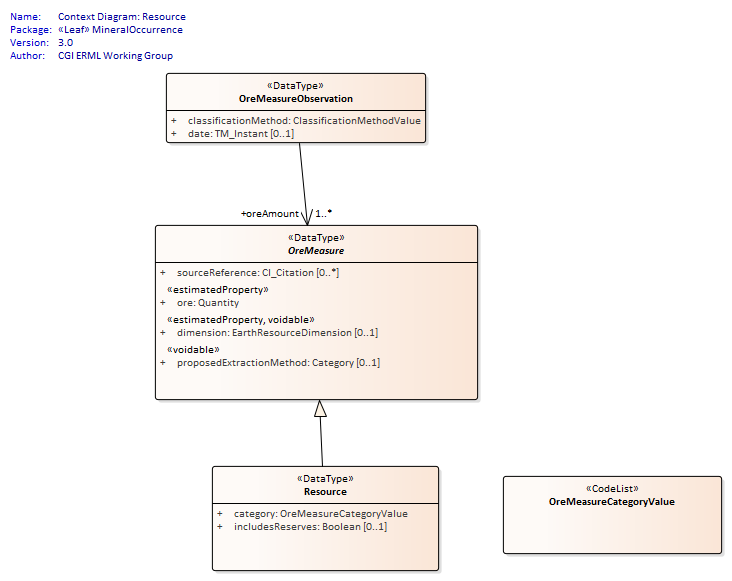
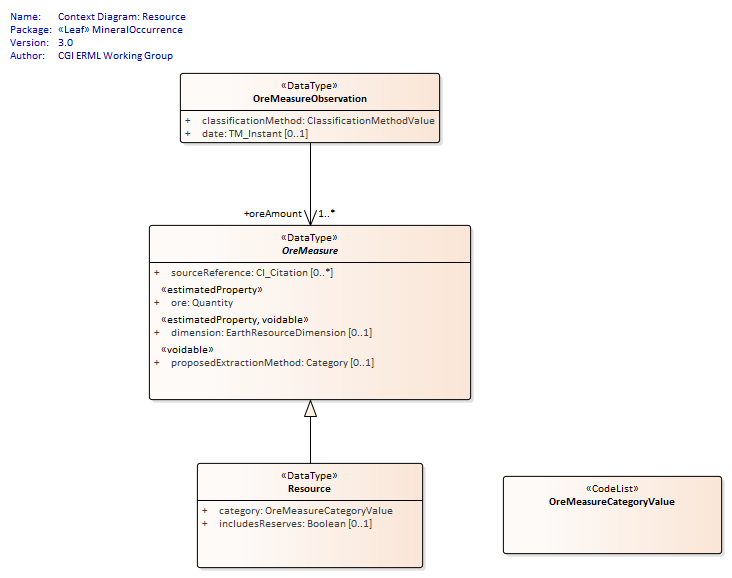
Add OreMeasureObservation to context diagram for Reserve and UNFClassification in documentation
git-svn-id: https://svnserv.csiro.au/svn/ext/xmml/GGIC@2835 8f638a70-d4da-0310-89f2-e0c20b8c11d7

diff --git a/trunk/doc/ERML_3_Doc/EARoot/EA2/EA92.htm b/trunk/doc/ERML_3_Doc/EARoot/EA2/EA92.htm
@@ -643,17 +643,16 @@ function nameClassifier(name, separator)
 				</tr>
 				<tr>
 					<td width="40%" class="TableRow" valign="top">
-						<a href="EA105.htm">«DataType» SupergeneProcesses</a><br />
+						<a href="EA92.htm">«FeatureType» EarthResource</a><br />
 						Class &nbsp;
 					</td>
 					<td width="30%" class="TableRow" valign="top">
-						<strong>Name:</strong> &nbsp;<br />
+						<strong>Name:</strong> child<br />
 						&nbsp;
 					</td>
 					<td width="30%" class="TableRow" valign="top">
-						<strong>Name:</strong> supergeneModification<br />
-						-- Definition --
-A supergene process which would allow a metal enrichment produced by the chemical remobilisation of metals in an oxidised or transitional environment.	
+						<strong>Name:</strong> parent<br />
+						&nbsp;	
 					</td>
 				</tr>
 				<tr>
@@ -667,16 +666,17 @@ A supergene process which would allow a metal enrichment produced by the chemica
 				</tr>
 				<tr>
 					<td width="40%" class="TableRow" valign="top">
-						<a href="EA92.htm">«FeatureType» EarthResource</a><br />
+						<a href="EA105.htm">«DataType» SupergeneProcesses</a><br />
 						Class &nbsp;
 					</td>
 					<td width="30%" class="TableRow" valign="top">
-						<strong>Name:</strong> child<br />
+						<strong>Name:</strong> &nbsp;<br />
 						&nbsp;
 					</td>
 					<td width="30%" class="TableRow" valign="top">
-						<strong>Name:</strong> parent<br />
-						&nbsp;	
+						<strong>Name:</strong> supergeneModification<br />
+						-- Definition --
+A supergene process which would allow a metal enrichment produced by the chemical remobilisation of metals in an oxidised or transitional environment.	
 					</td>
 				</tr>
 				<tr>

diff --git a/trunk/doc/ERML_3_Doc/EARoot/EA2/EA85.htm b/trunk/doc/ERML_3_Doc/EARoot/EA2/EA85.htm
@@ -36,9 +36,10 @@ function nameClassifier(name, separator)
 <img src="EA86.png" usemap="#EA86" border="0" />
 
 <MAP NAME="EA86">
-<area shape="rect" coords="404,415,542,486" href="EA120.htm" target="_self">
-<area shape="rect" coords="83,157,406,332" href="EA100.htm" target="_self">
-<area shape="rect" coords="179,414,310,484" href="EA107.htm" target="_self">
+<area shape="rect" coords="98,161,358,231" href="EA101.htm" target="_self">
+<area shape="rect" coords="394,583,532,654" href="EA120.htm" target="_self">
+<area shape="rect" coords="67,301,389,476" href="EA100.htm" target="_self">
+<area shape="rect" coords="163,583,293,653" href="EA107.htm" target="_self">
 </MAP>
 
 	<div class="ObjectTitle">Context Diagram: UNFCClassification : Class diagram</div>
@@ -49,7 +50,7 @@ function nameClassifier(name, separator)
 		</tr>
 		<tr>
 			<td width="15%" class="ObjectDetailsTopic">Modified:</td>
-			<td width="85%" class="ObjectDetailsValue">29/06/2018 2:11:56 PM</td>
+			<td width="85%" class="ObjectDetailsValue">29/06/2018 2:54:06 PM</td>
 		</tr>
 		<tr style="padding-top: 10px;">
 			<td width="15%" class="ObjectDetailsTopic"><img src="../../images/plus03.gif" align="absmiddle" id="proj" onclick="parent.toggleData(this.id)" />Project:</td>

diff --git a/trunk/doc/ERML_3_Doc/EARoot/EA2/EA77.htm b/trunk/doc/ERML_3_Doc/EARoot/EA2/EA77.htm
@@ -36,9 +36,10 @@ function nameClassifier(name, separator)
 <img src="EA78.png" usemap="#EA78" border="0" />
 
 <MAP NAME="EA78">
-<area shape="rect" coords="482,410,628,477" href="EA119.htm" target="_self">
-<area shape="rect" coords="126,137,449,312" href="EA100.htm" target="_self">
-<area shape="rect" coords="173,402,400,477" href="EA103.htm" target="_self">
+<area shape="rect" coords="139,123,399,193" href="EA101.htm" target="_self">
+<area shape="rect" coords="531,515,677,582" href="EA119.htm" target="_self">
+<area shape="rect" coords="108,257,430,432" href="EA100.htm" target="_self">
+<area shape="rect" coords="156,511,382,586" href="EA103.htm" target="_self">
 </MAP>
 
 	<div class="ObjectTitle">Context Diagram: Reserve : Class diagram</div>
@@ -49,7 +50,7 @@ function nameClassifier(name, separator)
 		</tr>
 		<tr>
 			<td width="15%" class="ObjectDetailsTopic">Modified:</td>
-			<td width="85%" class="ObjectDetailsValue">29/06/2018 2:11:29 PM</td>
+			<td width="85%" class="ObjectDetailsValue">29/06/2018 2:53:22 PM</td>
 		</tr>
 		<tr style="padding-top: 10px;">
 			<td width="15%" class="ObjectDetailsTopic"><img src="../../images/plus03.gif" align="absmiddle" id="proj" onclick="parent.toggleData(this.id)" />Project:</td>

diff --git a/trunk/doc/ERML_3_Doc/EARoot/EA2/EA79.htm b/trunk/doc/ERML_3_Doc/EARoot/EA2/EA79.htm
@@ -37,9 +37,9 @@ function nameClassifier(name, separator)
 
 <MAP NAME="EA80">
 <area shape="rect" coords="503,476,722,554" href="EA119.htm" target="_self">
-<area shape="rect" coords="166,73,426,143" href="EA101.htm" target="_self">
-<area shape="rect" coords="155,225,478,400" href="EA100.htm" target="_self">
-<area shape="rect" coords="212,466,439,571" href="EA104.htm" target="_self">
+<area shape="rect" coords="180,73,440,143" href="EA101.htm" target="_self">
+<area shape="rect" coords="149,225,471,400" href="EA100.htm" target="_self">
+<area shape="rect" coords="197,463,423,568" href="EA104.htm" target="_self">
 </MAP>
 
 	<div class="ObjectTitle">Context Diagram: Resource : Class diagram</div>
@@ -50,7 +50,7 @@ function nameClassifier(name, separator)
 		</tr>
 		<tr>
 			<td width="15%" class="ObjectDetailsTopic">Modified:</td>
-			<td width="85%" class="ObjectDetailsValue">29/06/2018 2:11:36 PM</td>
+			<td width="85%" class="ObjectDetailsValue">29/06/2018 2:53:10 PM</td>
 		</tr>
 		<tr style="padding-top: 10px;">
 			<td width="15%" class="ObjectDetailsTopic"><img src="../../images/plus03.gif" align="absmiddle" id="proj" onclick="parent.toggleData(this.id)" />Project:</td>

diff --git a/trunk/doc/ERML_3_Doc/EARoot/EA2/EA101.htm b/trunk/doc/ERML_3_Doc/EARoot/EA2/EA101.htm
@@ -91,7 +91,7 @@ function nameClassifier(name, separator)
 		</tr>
 		<tr id="adv01" style="display: none;">
 			<td class="ObjectDetailsTopic" style="padding-left: 18px;">Appears In:</td>
-			<td class="ObjectDetailsValue"><a href="EA87.htm">Summary Diagram: MineralOccurrence</a>, <a href="EA61.htm">Context Diagram: EarthResource</a>, <a href="EA75.htm">Context Diagram: OreMeasure</a>, <a href="EA79.htm">Context Diagram: Resource</a>, <a href="EA83.htm">Context Diagram: TotalProduction</a></td>
+			<td class="ObjectDetailsValue"><a href="EA87.htm">Summary Diagram: MineralOccurrence</a>, <a href="EA61.htm">Context Diagram: EarthResource</a>, <a href="EA75.htm">Context Diagram: OreMeasure</a>, <a href="EA77.htm">Context Diagram: Reserve</a>, <a href="EA79.htm">Context Diagram: Resource</a>, <a href="EA85.htm">Context Diagram: UNFCClassification</a>, <a href="EA83.htm">Context Diagram: TotalProduction</a></td>
 		</tr>
 	</table>
 	

diff --git a/trunk/doc/ERML_3_Doc/index.htm b/trunk/doc/ERML_3_Doc/index.htm
@@ -6,7 +6,7 @@
 <link href="css/ea.css" rel="stylesheet" type="text/css" />
 <script language="JavaScript" src="js/displayToc.js" type="text/javascript"></script>
 </head>
-<body onload="initLoad(this,'toc.htm','./EARoot/EA2/EA87.htm')" onresize="resizePage()">
+<body onload="initLoad(this,'toc.htm','./EARoot/EA2/EA79.htm')" onresize="resizePage()">
 <div class="IndexTitle">
 	EarthResource
 </div>

diff --git a/trunk/doc/ERML_3_Doc/EARoot/EA3.htm b/trunk/doc/ERML_3_Doc/EARoot/EA3.htm
@@ -42,7 +42,7 @@ function nameClassifier(name, separator)
 		</tr>
 		<tr>
 			<td class="ObjectDetailsTopic">Modified:</td>
-			<td class="ObjectDetailsValue">21/09/2012 12:00:00 AM</td>
+			<td class="ObjectDetailsValue">29/06/2018 2:43:14 PM</td>
 		</tr>
 		<tr style="height: 10px"><td colspan="2"></td></tr>
 		<tr>
